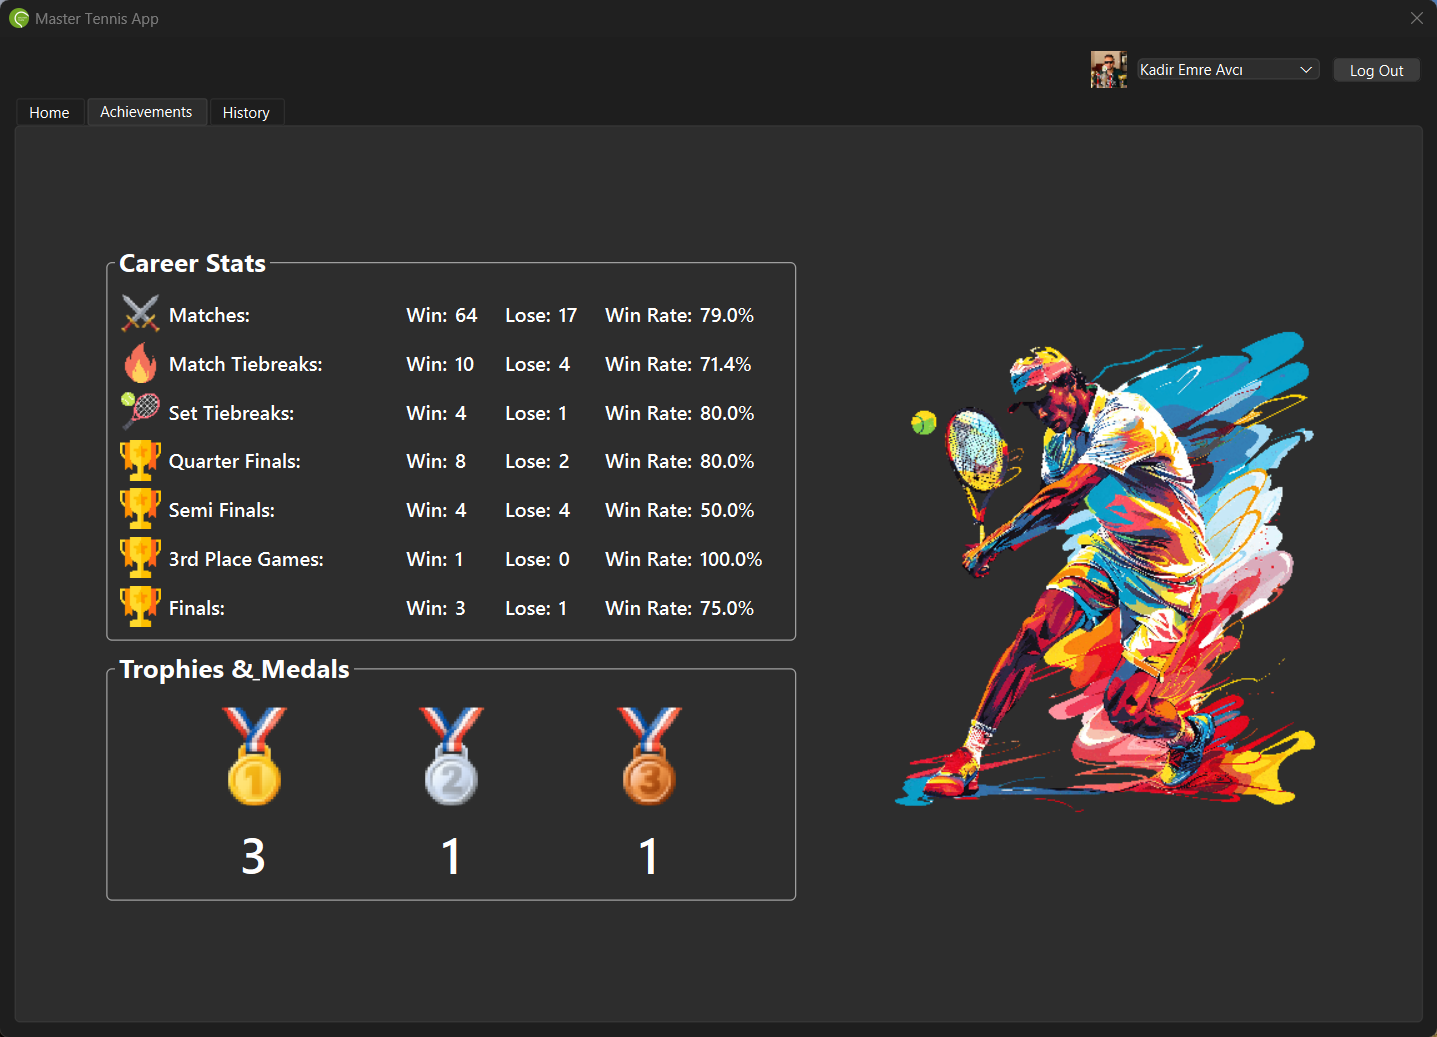
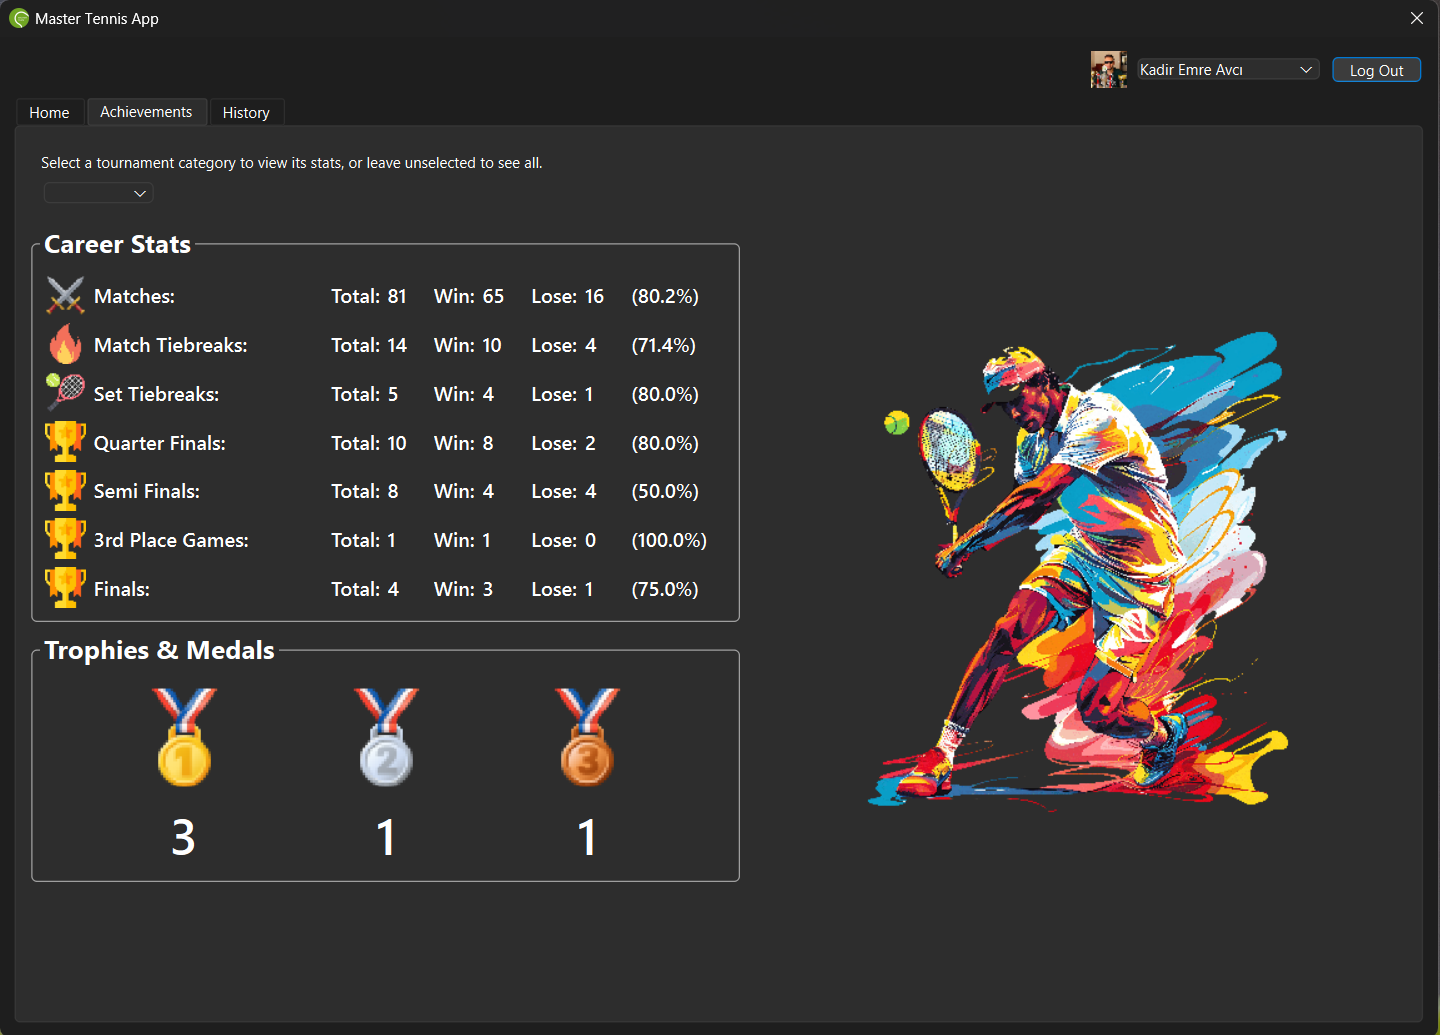
The README file has been updated according to recent changes in AchievementsPage.

diff --git a/README.md b/README.md
@@ -94,6 +94,10 @@ View your personalized career statistics, including the number of played finals,
 
 ![Achievements](docs/screenshots/achievements.png)
 
+Filter your career statistics by tournament category for more detailed insights.
+
+![Achievements](docs/screenshots/filtered_career_stats.png)
+
 ### Tournament Records
 
 Browse past tournaments, view all match records for tournaments you participate in, and search for details like played opponents, max stages reached, and seasons.
